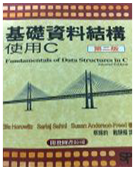
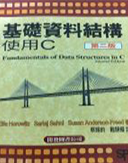
修掉白邊 去掉卡片邊框  增加背面  但是一開始的背面還沒放

diff --git a/src/Card/RememberCard.java b/src/Card/RememberCard.java
@@ -33,8 +33,8 @@ public class RememberCard extends JLayeredPane {
     /**
      * 初始化遊戲的行列數，行列數成績必須為偶數
      */
-    private static final int ROWS = 6;
-    private static final int COLUMNS = 5;
+    private static final int ROWS = 5;
+    private static final int COLUMNS = 6;
     private static final long serialVersionUID = -8908268719780973221L;
     private JLabel txt_Time;
     private JLabel expFromMain;
@@ -42,7 +42,7 @@ public class RememberCard extends JLayeredPane {
     private JLabel exp;
     private JLabel score;
     private boolean isRunning = false;
-    private long time=30;
+    private long time=60;
     /**
      * 存放圖片的目錄，簡單起見，存放圖片的目錄中圖片個數為初始化的行列數乘積的一半
      */
@@ -320,13 +320,15 @@ public class RememberCard extends JLayeredPane {
     private void initPicPanels() {
         panel_Pic.setLayout(new GridLayout(ROWS, COLUMNS, 10, 10));//10是間隙
         panel_ans.setLayout(new GridLayout(ROWS, COLUMNS, 10, 10));//10是間隙
-
+        panel_Pic.setBackground( Color.ORANGE);
+        panel_ans.setBackground( Color.ORANGE);
         initPictureIndex();//初始化圖片的索引並賦值每個圖片的路徑
         //System.out.println(ROWS * COLUMNS);
         for (int i = 0; i < ROWS * COLUMNS; i++) {
 
             panel_1 = new PicPanel(this, picture[i]);
             panel_Pic.add(panel_1);
+            panel_1.setBorder(null);
             //panel_ans.add(panel_1);
 
             repaint();
@@ -336,6 +338,7 @@ public class RememberCard extends JLayeredPane {
             panel_2 = new PicPanel(this, picture[i]);
             //panel_Pic.add(panel_1);
             panel_ans.add(panel_2);
+            panel_ans.setBorder(null);
 
             repaint();
         }
@@ -354,12 +357,14 @@ public class RememberCard extends JLayeredPane {
                 panel_1 = (PicPanel)comp;
                 panel_2=(PicPanel)comp;
                 panel_1.setLabelPicNull();
+                //panel_1.setPicPath("data/cards/icon/backhome.png");
             }
         }
     }
 
 
     /**
+     *
      * 初始化圖片的索引並賦值每個圖片的路徑
      */
     private void initPictureIndex() {

diff --git a/src/Card/PicPanel.java b/src/Card/PicPanel.java
@@ -17,7 +17,7 @@ import javax.swing.border.LineBorder;
 
 /**
  * @author jqs
- *
+
  *         圖片面板，主要實現了圖片的顯示與圖片相同判斷
  */
 public class PicPanel extends JPanel {
@@ -25,6 +25,7 @@ public class PicPanel extends JPanel {
     private String picPath;
     private JLabel lbl_Pic = new JLabel();
     private ImageIcon bgIcon = null;
+    private ImageIcon cardback = new ImageIcon("data/cards/icon/backhome.png");
     private boolean isShow = false;
     private RememberCard parent;
     private boolean finished = false;
@@ -35,6 +36,7 @@ public class PicPanel extends JPanel {
         this.setBorder(new CompoundBorder(null, new LineBorder(new Color(0, 0, 0), 1)));
         this.setLayout(new BorderLayout());
         this.add(lbl_Pic, BorderLayout.CENTER);
+
         this.addMouseListener(mouseAdapter);
         initLabelImage();
     }
@@ -86,7 +88,7 @@ public class PicPanel extends JPanel {
                                 catch (InterruptedException e1) {
                                     e1.printStackTrace();
                                 }
-                                lbl_Pic.setIcon(null);
+                                lbl_Pic.setIcon(cardback);
                                 isShow = !isShow;
                                 repaint();
                                 preOne.getMouseListeners()[0].mouseClicked(null);
@@ -97,7 +99,7 @@ public class PicPanel extends JPanel {
                         lbl_Pic.setIcon(bgIcon);
                     }
                     else {
-                        lbl_Pic.setIcon(null);
+                        lbl_Pic.setIcon(cardback);
                     }
                     repaint();
                 };
@@ -114,7 +116,6 @@ public class PicPanel extends JPanel {
         private boolean checkRight(PicPanel curOne, PicPanel preOne) {
             return curOne.getPicPath().equals(preOne.getPicPath()) && !curOne.equals(preOne);
         }
-
 
     };
 
